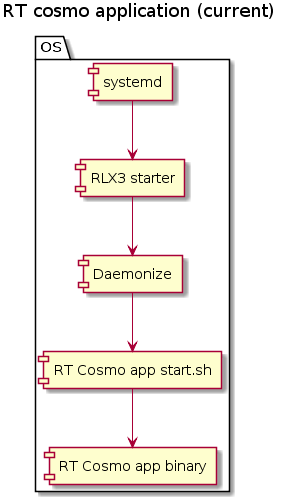
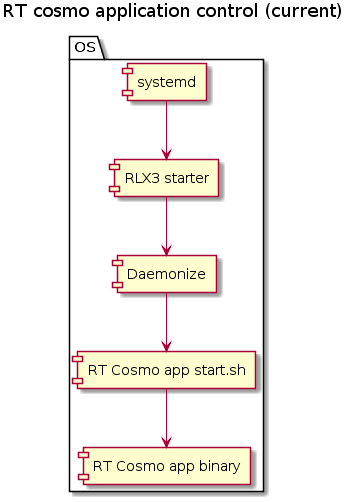
Change figure's title

diff --git a/proposals/README.md b/proposals/README.md
@@ -40,6 +40,8 @@ This solution ends up with the following processes on the system.
 
 The RT cosmo application is controlled by the ```rlx3-starter``` as depicted in the figure below. The difference is that the ```daemonize``` package is not used anymore and the RLX3 starter service unit doesn't have Type=```forking``` (only my assumption).
 
+As far as I know, this proposal is the same as the one in the [Kanbanize story](#TODO:).
+
 ![RT cosmo proposal #1 - components](1_rtcosmo_app_mng_component_proposal1.png)
 
 This solution ends up with the following processes on the system.
